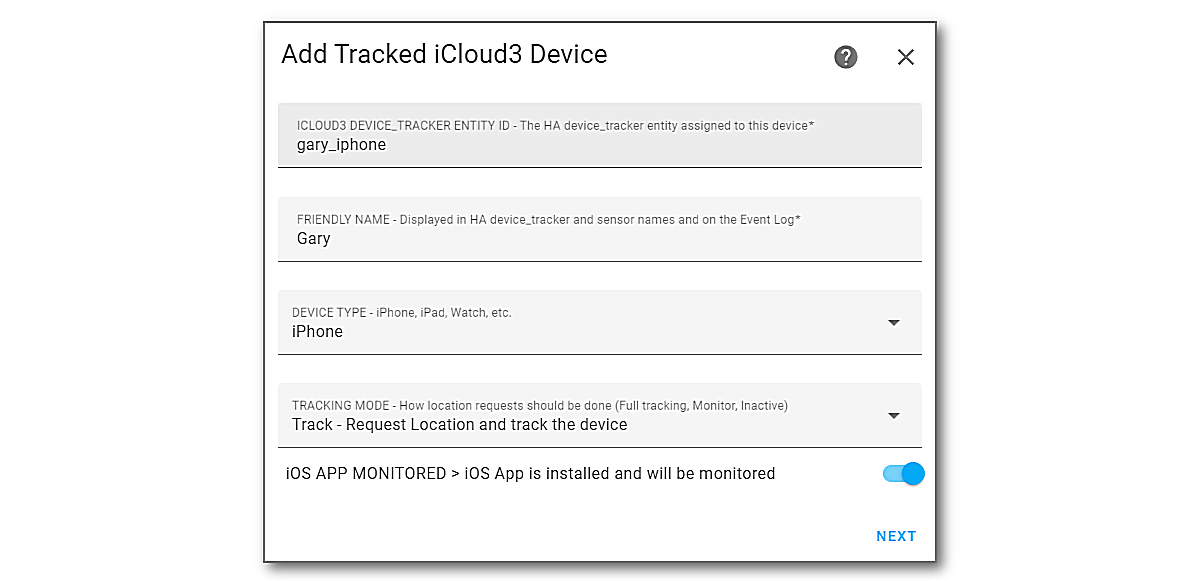
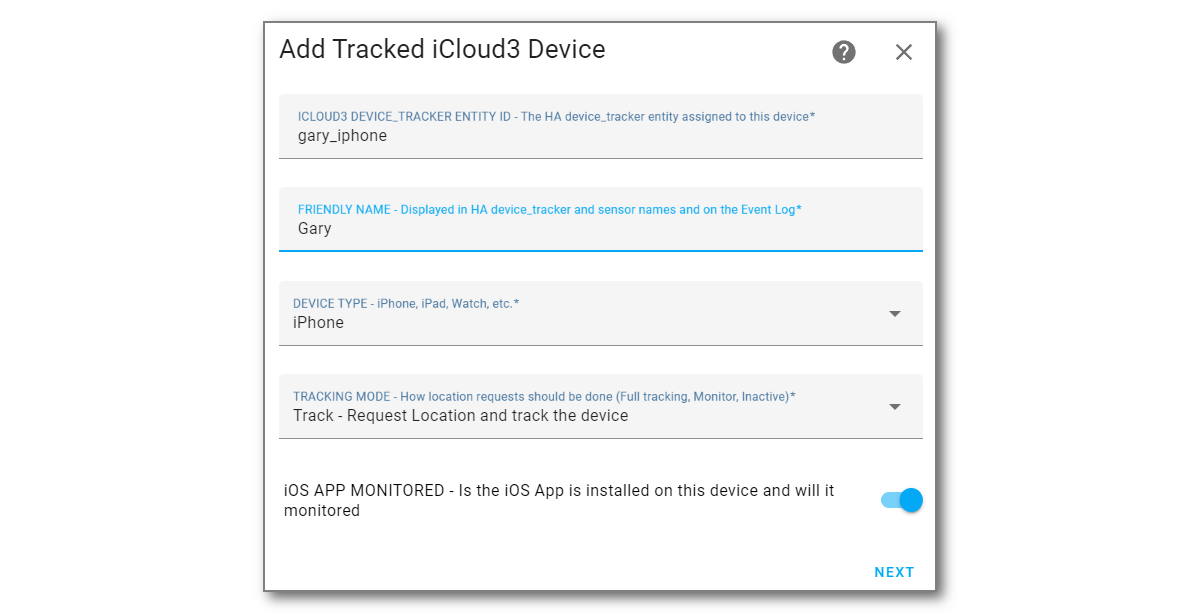
iCloud3 v3.0 documentation

diff --git a/docs/chapters/0.1-migrating-v2.4-to-v3.0.md b/docs/chapters/0.1-migrating-v2.4-to-v3.0.md
@@ -2,19 +2,19 @@
 
 iCloud3 v3 is a true Home Assistant Integration that is configured on the **HA Settings > Devices & Settings > Integration > iCloud3** screen. That means the yaml parameters in the *configuration.yaml* and *config_ic3.yaml* files are no longer used or needed. 
 
-When iCloud3 is added to HA on Integrations screen, the parameters in these files are migrated to the new internal files (*config/.storage/icloud3/configuration*). The migration should be painless but it is required that that they be reviewed before they will be used. This is done on the configuration screens using *The Configurator* described in general in the *iCloud3 Components* chapter and in detail in the *Configuration Parameters* chapter.
+When iCloud3 is added to HA on Integrations screen, the parameters in these files are migrated to the new internal files (*config/.storage/icloud3/configuration*). The migration should be painless but it is required that that they be reviewed before they will be used. This is done on the configuration screens using *The Configuration Wizard* described in general in the *iCloud3 Components* chapter and in detail in the *Configuration Parameters* chapter.
 
-!> IMPORTANT - YOU MUST REVIEW THE MIGRATION RESULTS ON THE CONFIGURATION SCREENS - The 'old yaml' parameters will be migrated again and again until they are reviewed with *The Configurator*. Once the review is done, the migrated parameters (and any changes that were made) will be used. The 'old yaml' parameters can then be deleted.
+!> IMPORTANT - YOU MUST REVIEW THE MIGRATION RESULTS ON THE CONFIGURATION SCREENS - The 'old yaml' parameters will be migrated again and again until they are reviewed with *The Configuration Wizard*. Once the review is done, the migrated parameters (and any changes that were made) will be used. The 'old yaml' parameters can then be deleted.
 
 Generally, you will do the following:
 1. Install iCloud3 from HACS (or manually). 
 
    !> BETA VERSION - Follow the Beta Install Instructions instead of using HACS.
 
-2. Add the iCloud3 integrations component (*iCloud3 Configurator*). 
+2. Add the iCloud3 integrations component (*iCloud3 Configuration Wizard*). 
 
-3. Open *The Configurator* and review each of the screens. The most important screens are:
-   - *iCloud Account Login Credentials* screen - Verify the username/password. Select *Show/Hide Username/password* in the bottom area and click *Submit* to see them.
+3. Open the *Configuration Wizard* and review each of the screens. The most important screens are:
+   - *iCloud Account Login Credentials* screen - Verify the username/password. Select the *password display icon* to see them.
 
    - *iCloud3 Devices > iCloud3 Device Tracker Entities* - Review each of the devices you are tracking. 
 
@@ -22,9 +22,11 @@ Generally, you will do the following:
    
       Verify the selected devices are correct and reselect it if is not. Do the same for the Find-My-Friends, the iOS App and the picture that is displayed on the device_tracker entity and the badge sensor.
    
+      IMPORTANT: All devices are set to *Inactive* when they are migrated and will not be tracked until the *Tracking Mode* parameter is changed to *Tracked*. Alert messages are displayed at the top of the screen.
+   
    - Go through the other screens, review the parameter values and change any that did not migrate correctly.
    
-4. Exit *The Configurator*. Select *Restart Now*, then click *Submit* to restart iCloud3.
+4. Exit *The Configuration Wizard*. Select *Restart Now*, then click *Submit* to restart iCloud3.
 
    The device_tracker and sensor entities will be recreated, tracking will resume and the Event Log will redisplay the startup process stages before the devices are relocated.
 
@@ -42,13 +44,13 @@ These steps are described in detail below.
   1. Open HACS.
   2. Select **Integrations**.
   3. Type **iCloud3** in the Search Bar at the top of the screen. 
-  4. Select **iCloud3 Device Tracker**.
+  4. Select **iCloud3 v3 Device Tracker**.
   5. Select **Download**, then select **Download** again in the popup window.
   6. **Restart Home Assistant**.
 
-- **Hard Way** - Manual Installation
-  1. Download the *icloud3.zip* file from the *https://github.com/gcobb321/icloud3* iCloud3 GitHub Repository.
-  2. Unzip the file into the *config/sustom_components/icloud3* directory.
+- **Hard (but not too hard) Way** - Manual Installation
+  1. Download the *icloud3.zip* file from the iCloud3 GitHub Repository Released Page [here](https://github.com/gcobb321/icloud3_v3/releases). Selects *Assets* at the bottom, then the zip file, then select the location on your computer to save it.
+  2. Unzip the file into the *config/custom_components/icloud3* directory on your Home Assistant server (ex.: Raspberry Pi)
   3. **Restart Home Assistant**
 
 !> AGAIN, BETA VERSION - Follow the Beta Install Instructions instead of using HACS.
@@ -57,11 +59,11 @@ These steps are described in detail below.
 ------
 ### Step #2 - Set up the iCloud3 Integration
 
-iCloud3 is a Home Assistant Integration and is configured on the Integrations screens.
+iCloud3 is a Home Assistant Integration and is configured on the Integrations screens like all the other Integrations you may be using.
 
 1. Select **☰ > HA Settings > Devices & Services > Integrations**.
 2. Select **+ Add Integration** in the lower-right hand corner.
-3. Type **iCloud3**. Then select **iCloud3** from the list of Integrations. The iCloud3 entry will be added to the *Integrations* screen.
+3. Type **iCloud3**. Then select **iCloud3 v3** from the list of Integrations. The iCloud3 v3 entry will be added to the *Integrations* screen.
 
 
 
@@ -70,12 +72,12 @@ iCloud3 is a Home Assistant Integration and is configured on the Integrations sc
 
 The iCloud3 parameters need to be reviewed to verify the migration was performed correctly.
 
-Open *The Configurator*:
+Open *The Configuration Wizard*:
 
 1. Select **☰ > HA  Settings > Devices & Services > Integrations** if the Integrations screen is not already displayed from Step #2 above.
 2. Select **iCloud3 > Configure** as shown below.
 
-![](../images/cf-configurator.png)
+![](../images/cf-Configure.png)
 
 3. The Menu screen is displayed.
 
@@ -83,33 +85,62 @@ Open *The Configurator*:
 
 	
 
-#### iCloud Account & Login Credentials screen  {docsify-ignore}
+### iCloud Account & Login Credentials screen  {docsify-ignore}
 
-1. Select **Show/Hide Username/Password** at the bottom and click **Submit** to display them. Correct them if necessary. They are hidden from view for security purposes. Additionally, the password is encrypted in the configuration file.
+1. Select the **Password Display Icon** at the end of the username and password fields to display their values. Correct them if necessary.
 
 2. Select **Login**, then select **Submit**.  The iCloud account will be logged into and the lists of iPhones, iPads and other devices associated with the account will be set up. 
 
-   Note: iCloud3 will attempt to do a login when the it is loaded by HA. 
+3. Select **Save**, then select **Submit** to return to the menu.
+
+
+
 
 ![](../images/cf-acct-login.png)
 
+Notes: 
+
+1. iCloud3 will attempt to do a login when the it is loaded by HA so the username & password will have already been filled in.
+
+2. The password is encrypted when it is saved in the configuration file.
+
+3. The username and password are not required if you are only tracking with the iOS App,
+
+4. Apple account authentication - If you are signing into the Apple iCloud Account for the first time, the account access token has expired or your account username or password has changed, you will get an alert on your phone or other device that someone is signing into your Apple account. 
+
+   1. Select **Allow** on your phone or other trusted device, the screen showing the 6-digit verification code is displayed
+
+   2. The code entry form below should display. If it does not, select *Enter Verification Code*, then select Submit.
+
+   3. Enter the 6-digit verification code, then select *Submit*. 
+
+      ![](../images/auth-process-3-code-entry.png)
+
+   4. From time-to-time, you will have to reauthenticate iCloud3's access to your Apple iCloud account. This is discussed later. 
 
 
-#### iCloud3 Devices screen  {docsify-ignore}
+
+### iCloud3 Device Tracker Entities screen  {docsify-ignore}
 
 All of the devices being tracked are listed on this screen. 
 
+1. Select the device to be updated.
 1. Select **Update Device**, then select **Next** to display the *Update Tracked iCloud3 Device* screen.
 
 ![](../images/cf-device-list.png)
 
-!> All of the devices in the *configuration.yaml* and *config_ic3.yaml* files are migrated and listed on this screen. There have been problems starting iCloud3 for the first time caused by migrating old devices, unlocatible devices and devices that no longer in an iCloud account. 
+!> IMPORTANT: All devices are migrated and set to an INACTIVE status. They will not be located or tracked until this is changed on the next screen.
 
-1. Select the device that is no longer wanted, select *Delete Device*.
+**Action Options:**
 
-2. Select Next to delete it.
+- **Update Device** - This displays the *Update Tracked iCloud3 Device* screen where you configure the device.
+- **Add Device** - Add a new device to be tracked, then specify it's parameters.
+- **Delete Device** - You can delete the selected device , delete all devices or clear the Family Sharing, Find my Friends and iOS App device assignment (use with caution)
+- **Change Device Order** - The devices are displayed on the Event Log screen in the order you add them here. Tracked devices are listed first, followed by Monitored devices. This screen lets you change the order they will be listed on the Event Log.
 
-#### Update Tracked iCloud3 Device screen  {docsify-ignore}
+
+
+### Update Tracked iCloud3 Device screen  {docsify-ignore}
 
 This screen specifies various parameters used by iCloud3 to track the device. The major parameters are:
 
@@ -118,8 +149,6 @@ This screen specifies various parameters used by iCloud3 to track the device. Th
 - The picture to be displayed on the *device_tracker.[devicename]* entity and the *sensor.[devicename]_badge* entity.
 
 Verify the parameters were migrated correctly and make any necessary changes.
-
-!>  When the devices are migrated, only one device will be tracked, the others are set to *Inactive*.  There have been problems starting iCloud3 for the first time caused by migrating old devices, unlocatible devices and devices that no longer in an iCloud account. 
 
 Review each of  the devices:
 
@@ -132,9 +161,14 @@ Review each of  the devices:
 
 ![](../images/cf-device-update.png)
 
+!>  When the devices are migrated, all devices are set to *Inactive*.  There have been problems starting iCloud3 for the first time caused by migrating old devices, unlocatable devices and devices that no longer in an iCloud account. Alerts and warning messages are displayed when Inactive devices are detected.
+
+![](../images/cf-inactive-warning-msg.png)
 
 
-#### Sensors selection screen
+
+### Sensors selection screen
+
 This screen specifies the sensors that are created and updated during tracking. Review this screen if you have customized the sensors being used with the *create_sensors* or *exclude_sensors* parameter.
 
 
@@ -142,9 +176,9 @@ This screen specifies the sensors that are created and updated during tracking. 
 
 
 -----
-### Step #4 - Exit *The Configurator* and Restart iCloud3
+### Step #4 - Exit *The Configuration Wizard* and Restart iCloud3
 
-Since a tracked device was updated, iCloud3 will restart when you exit *The Configurator*.
+Since a tracked device was updated, iCloud3 will restart when you exit *The Configuration Wizard*.
 
 1. Display the **Main Menu** screen. Select **Save**, or **Cancel**, or **Return** depending on the screen that is displayed and select **Submit**..
 2. Select **Exit and Restart** on the Menu screen, then select **Next** to display the *Confirm Restarting iCloud3* screen. 
@@ -161,7 +195,7 @@ iCloud3 will restart, the device_tracker and sensor entities are created, the de
 
 #### The Other Configuration Screens  {docsify-ignore}
 
-Review the other screens just to see what is configurable. Nothing has to be done right now to get you up and running. The values you were using and/or default values will work fine. The other screens are shown and described in *Configuring iCloud3 using The Configurator* in the next chapter
+Review the other screens just to see what is configurable. Nothing has to be done right now to get you up and running. The values you were using and/or default values will work fine. The other screens are shown and described in *Configuring iCloud3 using The Configuration Wizard* in the next chapter
 
 
 ------

diff --git a/docs/chapters/0.0-change-log-v3.0.md b/docs/chapters/0.0-change-log-v3.0.md
@@ -10,21 +10,29 @@
 - Select the Family Sharing device and/or the Find-my-Friend device providing location data from a list of devices in the iCloud account.
 - Select the iOS App device to monitor from a list of HA mobile_app device_tracker entities. Select the specific device_tracker entity or the search criteria to use when scanning for the entity to monitor.
 - The iCloud3 devicename is no longer tied to the name of the device on the *Settings App > General > About > Name* field (it can be anything you want).
-- Actions that can be selected on the iCloud3 Event Log can also be selected on the Configurator screen. This includes tracking control (pause, resume, restart) and iCloud operations (Reset iCloud Interface, Enter Verification Code).
+- Actions that can be selected on the iCloud3 Event Log can also be selected on the Configuration Wizard screen. This includes tracking control (pause, resume, restart) and iCloud operations (Reset iCloud Interface, Enter Verification Code, etc).
 - Parameters are edited and verified while they are entered.
 - Most parameters are selected from lists.
-- Restart iCloud3 after the configuration has been changed without restarting Home Assistant
+- Restart iCloud3 after the configuration has been changed without restarting Home Assistant.
+- Pass through a zone without triggering an immediate zone enter event.
+- Improved usage of devices near your location.
+- Sensor distance measurements accuracy is now within 6"/4mm.
+- Enhanced distance sensor attributes - Distance to zone center and zone edge, distance to all other devices, distance moved from the last location.
+- iCloud3 logs debug information to it's own *icloud3-debug.log* file instead of adding them to the Home Assistant log file.
+- Text, date and other information type messages are not added to the HA Recorder data base. You no longer have to set up the exclude recorder sensor names, globs, wildcards, etc in *configuration.yaml*.
 
 #### Event Log card  {docsify-ignore}
 
-- The Lovelace Resource parameter for the iCloud3 Event Log card is automatically added or updated when when iCloud3 is installed or when the Event Log custom card directory is changed. It does not have to be entered manually.
+- The Lovelace Resource parameter for the iCloud3 Event Log card is automatically added or updated when iCloud3 is installed or when the Event Log custom card directory is changed. It does not have to be entered manually.
 - Sensor friendly names are easier to read when setting up new Lovelace cards.
 - Most messages were reformatted to provide more information, avoid duplicated messages and improve clarity.
 - Error are easier to understand, provide corrective instructions, are more visible and are easier to locate.
 - Tracking monitor messages, Status and alert messages are clearer and provide more information.
 - More details are displayed about the location data source to help identify relocation request reasons.
-- Location data/time updates from the iOS App and iCloud data now shows how the data source was selected or rejected. 
-- Added an icon to open the GitHub Issues web page for iCloud3.
+- Location data/time updates from the iOS App and iCloud data now show how the data source was selected or rejected. 
+- Added an icon to open the GitHub Issues web page for iCloud3v3.0.
+- Improved iCloud3 Restart status messages.
+- Startup Events are always available for review.
 
 #### Track from more than one zone  {docsify-ignore}
 
@@ -37,7 +45,7 @@
 
 #### Starting iCloud3  {docsify-ignore}
 
-- iCloud3 starts a lot faster, usually witin 10-seconds once after it is loaded by Home Assistant. 
+- iCloud3 starts a lot faster, usually within 10-seconds after it is loaded by Home Assistant. 
 - Startup messages provide more information about tracked devices, available iCloud Family Sharing and Find-my-Friends devices and those that can be monitored by the iOS App.
 - The internet connection request to the iCloud account and iCloud Location Services is started much earlier in the Home Assistant startup process. It does not wait for iCloud3 to be initialized.
 - Analysis of iCloud location data has been improved, resulting in fewer internet requests and improved response times.
@@ -66,10 +74,10 @@
 - The *travel_distance* sensor has been renamed to *moved_distance* for clarity.
 - The *update* Service Call has been renamed to *action*.
 - Some unused Service Call options have been removed (setting intervals, setting zones, changing Waze operations, etc).
-- *Near_Zone* has been removed.
+- *Near_Zone* zone has been removed.
 
 ------
 Gary Cobb *(aka geekstergary)*
 
-*December, 2022*
+April, 2023
 

diff --git a/docs/_sidebar.md b/docs/_sidebar.md
@@ -20,8 +20,8 @@
   -->
 </nav>
 
-- [Changes and new Features - v3.0.0](chapters/0.0-change-log-v3.0.0.md)
-- [Migrating from iCloud3 v2.4.x to v3](chapters/0.1-migrating-v2.4-to-v3.md)
+- [Changes and new Features - v3.0](chapters/0.0-change-log-v3.0.md)
+- [Migrating from iCloud3 v2.4.x to v3.0](chapters/0.1-migrating-v2.4-to-v3.0.md)
 - [———————————————————]()
 - [Understanding iCloud3](README.md)
   - [iCloud3 Components](chapters/1.1-ic3-components.md)
